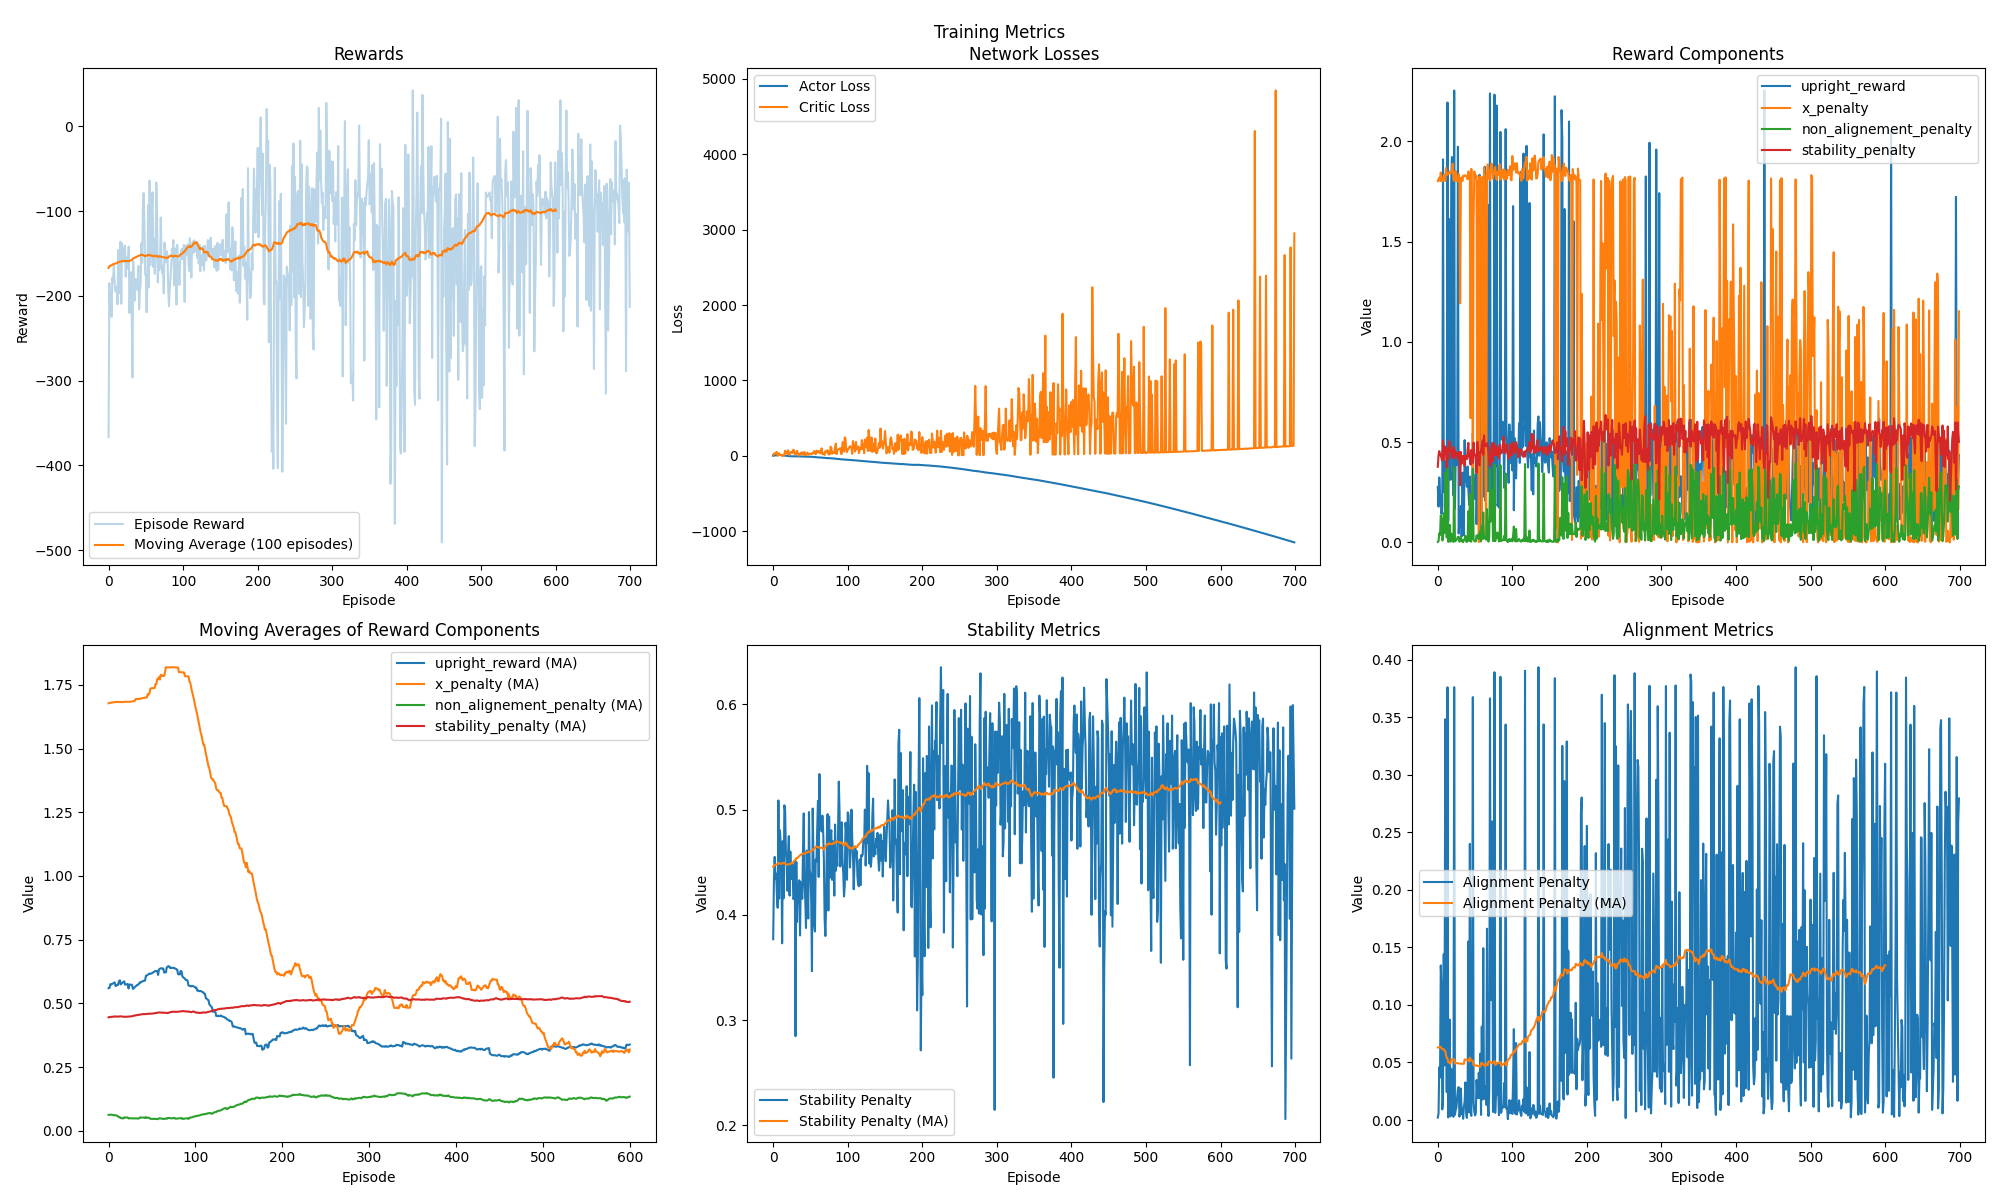
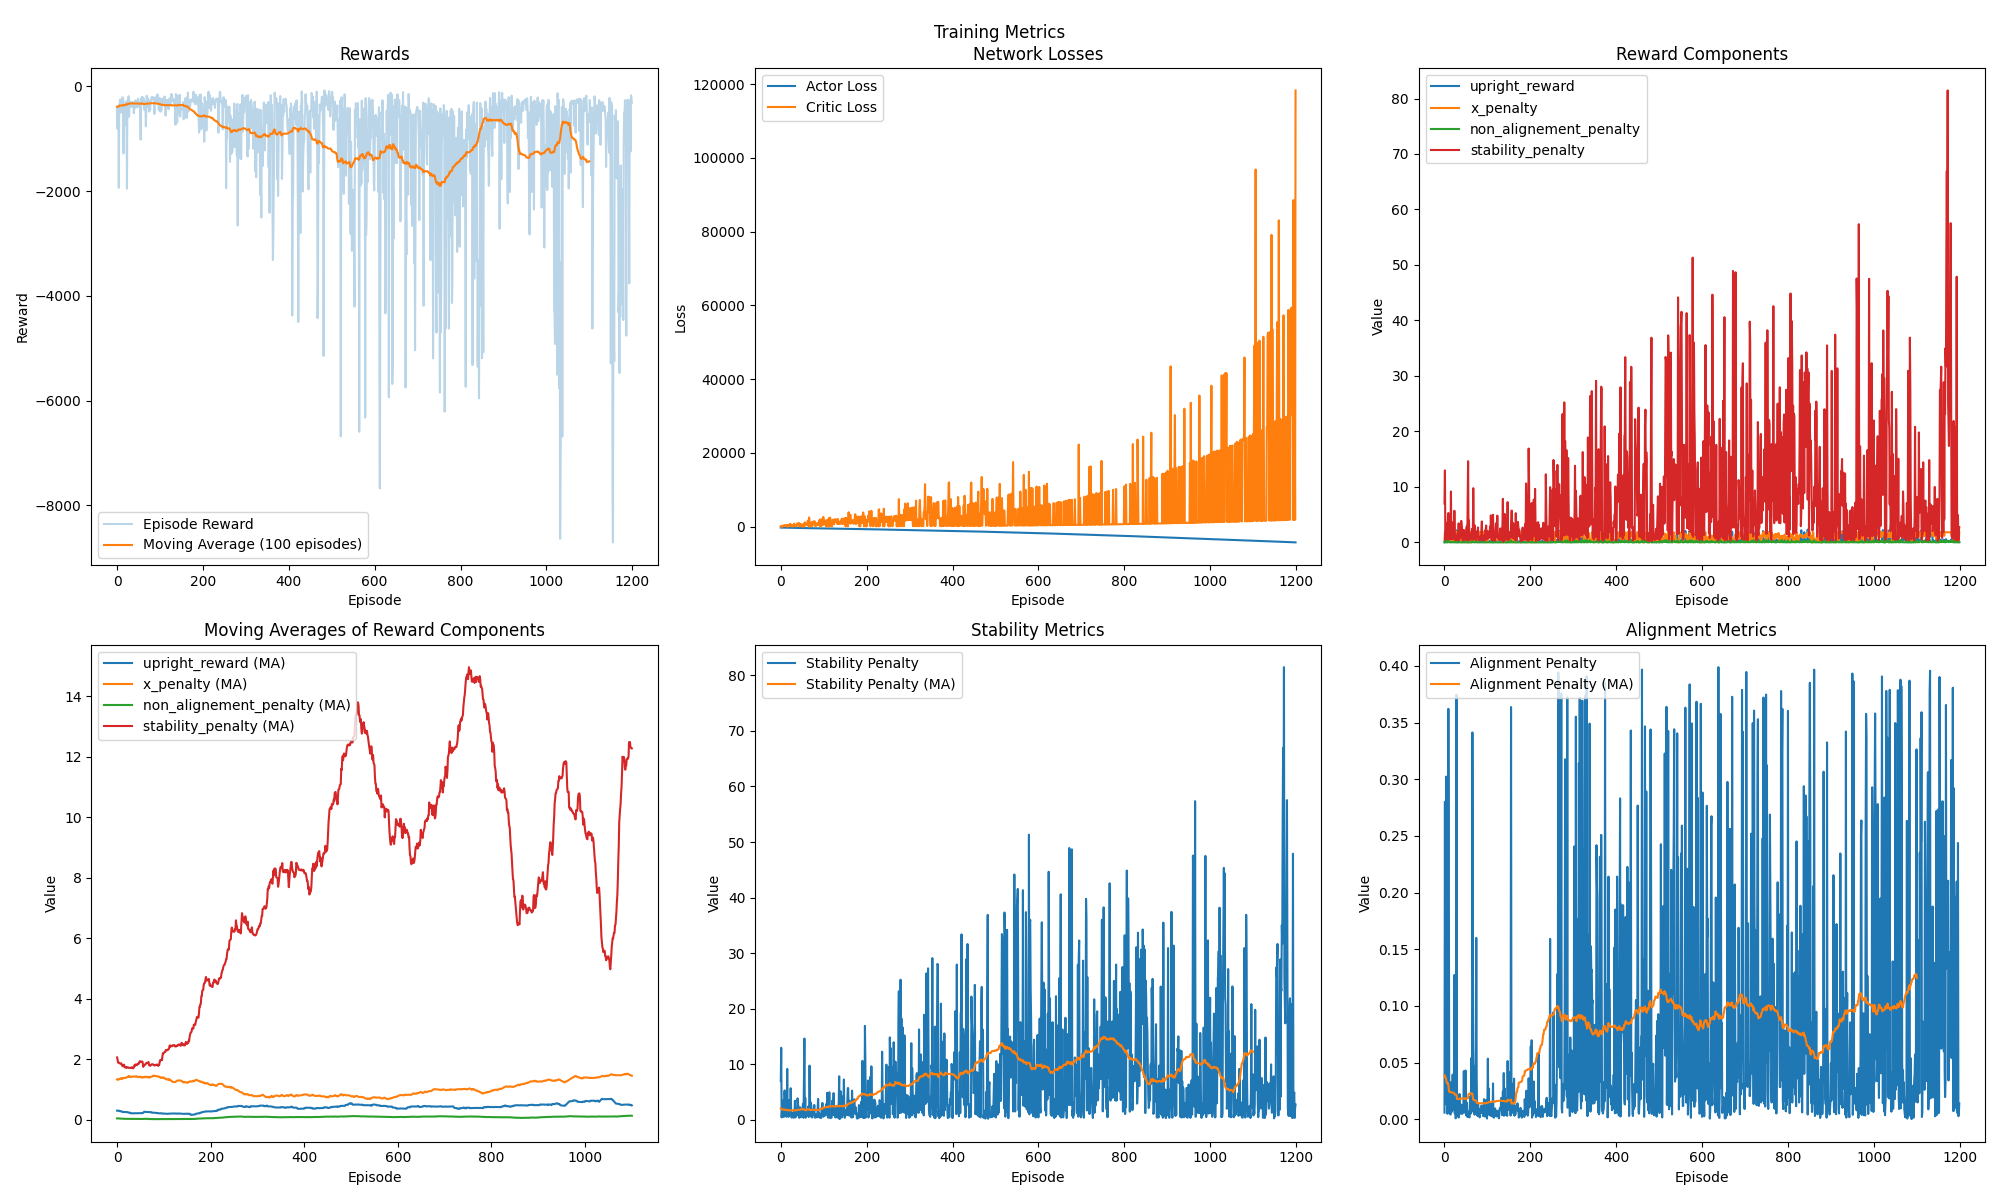
Update gravity parameter in TriplePendulum environment for improved realism. Modify metrics image to reflect changes.

diff --git a/env.py b/env.py
@@ -19,7 +19,7 @@ class TriplePendulumEnv(gym.Env):
         # -----------------------
         # Environment parameters
         # -----------------------
-        self.gravity = 9.81 # Gravity (9.81)
+        self.gravity = 1.0 # Gravity (9.81)
         self.mass_cart = 1.0
         self.mass_pend1 = 0.1  # Mass of first pendulum
         self.mass_pend2 = 0.1  # Mass of second pendulum
